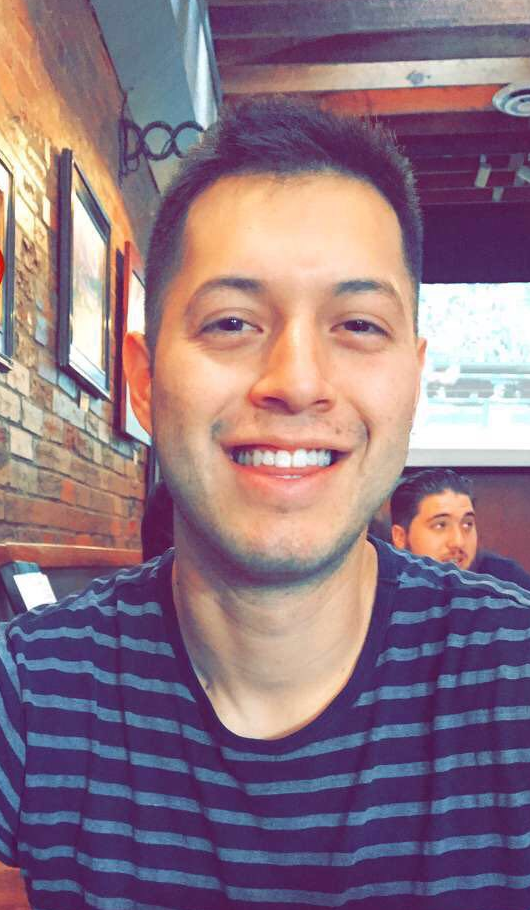
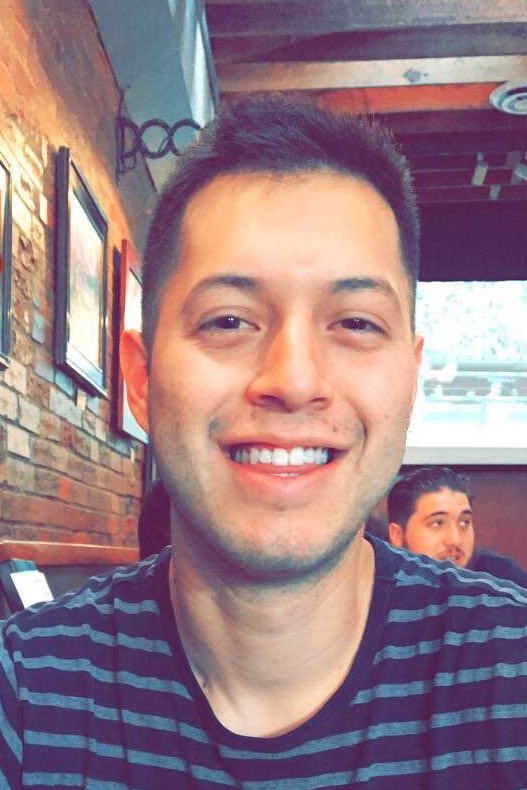
Change aspect ratio of bio image
Slightly adjusted Edgar's image to match 2x3 ratio.
Related #34

diff --git a/client/src/components/About/About.js b/client/src/components/About/About.js
@@ -6,7 +6,7 @@ import {CLIENT_TEAM_NAME} from "../../utils/constants";
 
 import RyliePicture from "../../static/images/RyliePic.jpg";
 import DarinPicture from "../../static/images/Darin.png";
-import EdgarPicture from "../../static/images/edgar-pic2.png";
+import EdgarPicture from "../../static/images/edgar-pic.png";
 
 const DarinBio = "Darin is a third year student at Colorado State University, where he is studying computer science with" +
     " a minor in math. He was born and raised in Fort Collins, Colorado, so he knows the area well. Programming is one" +
